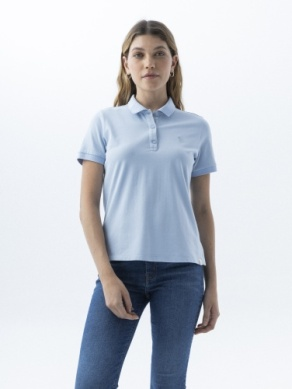
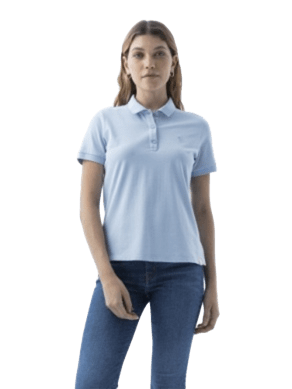
commit

diff --git a/assets/css/styles.css b/assets/css/styles.css
@@ -527,8 +527,9 @@ body {
   position: relative;
   width: 100%;
   padding-top: 100%;
-  background: linear-gradient(135deg, var(--gray-100) 0%, var(--gray-200) 100%);
+  background: linear-gradient(135deg, var(--gray-50) 0%, var(--gray-100) 100%);
   overflow: hidden;
+  border-radius: var(--radius-xl) var(--radius-xl) 0 0;
 }
 
 .product-carousel {
@@ -543,15 +544,22 @@ body {
 }
 
 .product-image {
+  position: absolute;
+  top: 0;
+  left: 0;
   width: 100%;
   height: 100%;
-  object-fit: cover;
-  transition: transform var(--transition-slow); /* Solo transición para el hover, no para el cambio de src */
+  object-fit: contain; /* ✅ Muestra imagen completa */
+  object-position: center;
+  transition: transform var(--transition-slow);
   cursor: pointer;
+  padding: var(--spacing-sm); /* Espaciado interno */
+  filter: drop-shadow(0 2px 4px rgba(0, 0, 0, 0.05));
 }
 
 .product-card:hover .product-image {
-  transform: scale(1.08);
+  transform: scale(1.05);
+  filter: drop-shadow(0 4px 8px rgba(0, 0, 0, 0.1));
 }
 
 /* Botones del carrusel */
@@ -903,7 +911,9 @@ body {
   left: 0;
   width: 100%;
   height: 100%;
-  object-fit: cover;
+  object-fit: contain;      
+  object-position: center;
+  padding: 12px;           
   transition: opacity 0.3s ease;
 }
 
@@ -956,7 +966,9 @@ body {
 .modal-thumbnails .thumbnail {
   width: 100%;
   aspect-ratio: 1;
-  object-fit: cover;
+  object-fit: contain;     
+  object-position: center;
+  padding: 4px;            
   border-radius: var(--radius-lg);
   cursor: pointer;
   border: 3px solid transparent;
@@ -2346,4 +2358,16 @@ img[loading="lazy"].loaded {
     width: 50px;
     height: 50px;
   }
+
+@media (max-width: 768px) {
+  .product-image {
+    padding: var(--spacing-xs); 
+  }
+}
+
+@media (max-width: 480px) {
+  .product-image {
+    padding: 4px; 
+  }
+}
 }
